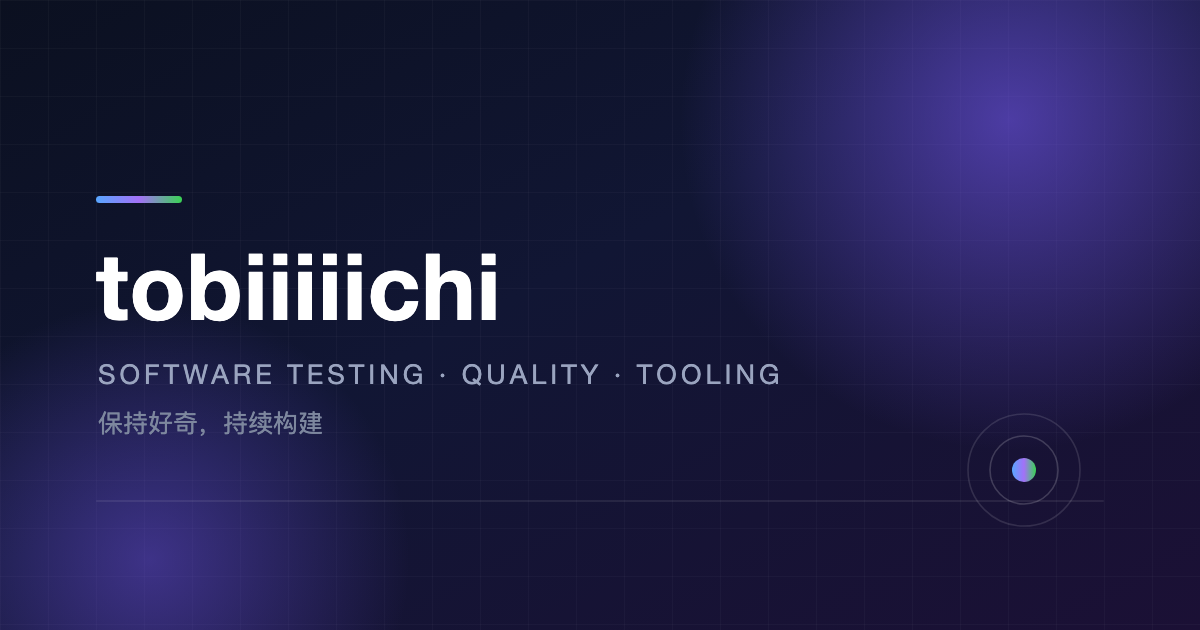
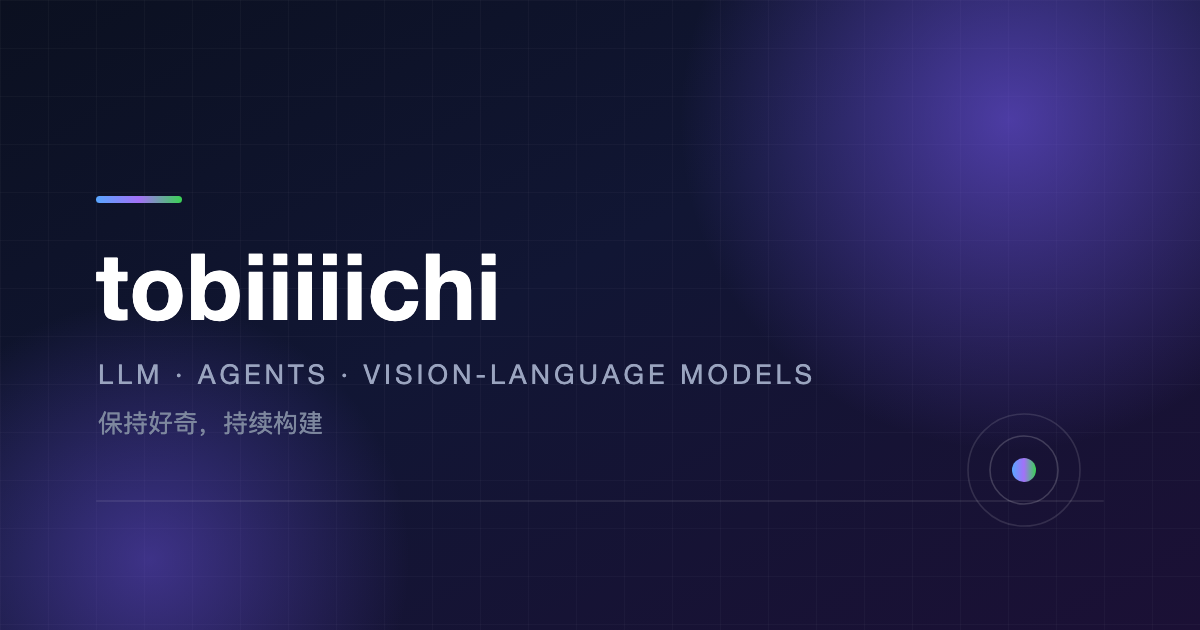
feat: 按 AI 方向更新站点内容

Changed region(s): [[0.0617, 0.573, 0.6783, 0.6333]]

diff --git a/index.html b/index.html
@@ -3,15 +3,15 @@
 <head>
 <meta charset="UTF-8">
 <meta name="viewport" content="width=device-width, initial-scale=1">
-<title>tobiiiiichi · 保持好奇，持续构建</title>
-<meta name="description" content="tobiiiiichi 的个人主页 —— 关注软件测试、质量保障与工程效率。保持好奇，持续构建。">
+<title>tobiiiiichi · LLM · Agent · VLM</title>
+<meta name="description" content="tobiiiiichi 的个人主页 —— 关注大语言模型、智能体、视觉语言模型与生成式引擎优化（GEO）。保持好奇，持续构建。">
 <meta name="author" content="tobiiiiichi">
 <link rel="canonical" href="https://tobiiiiichi.github.io/">
 <link rel="icon" href="assets/img/favicon.svg" type="image/svg+xml">
 
 <meta property="og:type" content="website">
-<meta property="og:title" content="tobiiiiichi · 保持好奇，持续构建">
-<meta property="og:description" content="关注软件测试、质量保障与工程效率。">
+<meta property="og:title" content="tobiiiiichi · LLM · Agent · VLM">
+<meta property="og:description" content="关注大语言模型、智能体、视觉语言模型与生成式引擎优化（GEO）。">
 <meta property="og:url" content="https://tobiiiiichi.github.io/">
 <meta property="og:image" content="https://tobiiiiichi.github.io/assets/img/og.png">
 <meta name="twitter:card" content="summary_large_image">
@@ -69,10 +69,10 @@
         <p class="kicker">Hello，我是</p>
         <!-- 想显示真名的话，把下面这行换成你的名字 -->
         <h1 class="hero__title">tobiiiiichi</h1>
-        <p class="hero__role">软件测试 · 质量保障 · 工程效率</p>
+        <p class="hero__role">大语言模型 · 智能体 · 视觉语言模型</p>
         <p class="hero__desc">
-          保持好奇，持续构建。关注软件是否可靠、流程是否省力，
-          也喜欢把重复的事情交给脚本去完成。
+          保持好奇，持续构建。关心模型能做什么、边界在哪，
+          也关心它怎么在真实流程里被用起来、被验证、被信任。
         </p>
 
         <div class="hero__actions">
@@ -109,35 +109,36 @@
   <section class="section" id="about">
     <div class="wrap">
       <p class="section__kicker reveal">关于我</p>
-      <h2 class="section__title reveal">把软件做对，也把流程做顺</h2>
+      <h2 class="section__title reveal">模型、智能体，以及它们怎么被信任</h2>
 
       <div class="about">
         <div class="about__text reveal">
           <p>
-            我在软件质量这条线上工作：从测试计划、测试用例到回归验证，
-            尽量让每一次交付都有据可依，而不是靠感觉。
+            我的方向是大语言模型与智能体：从模型本身的能力，
+            到它如何调用工具、如何在一个多步任务里保持稳定。
           </p>
           <p>
-            工作之外，我喜欢折腾自己的工具链和小项目。
-            重复的事情能自动化就自动化，能写清楚就不留在脑子里。
+            最近也在看视觉语言模型和生成式引擎优化（GEO）。
+            当答案越来越多由模型生成，内容如何被找到、被引用、被追溯，
+            是我觉得还没被讲清楚的问题。
           </p>
         </div>
 
         <ul class="facts">
           <li class="fact reveal" data-delay="1">
-            <span class="fact__icon" aria-hidden="true">🔍</span>
-            <h3>测试与质量</h3>
-            <p>测试设计、缺陷跟踪、回归与验收，让问题在交付前暴露。</p>
+            <span class="fact__icon" aria-hidden="true">🧠</span>
+            <h3>大语言模型</h3>
+            <p>模型能力、推理与评测：它能做到什么、边界在哪，以及怎么把这件事量出来。</p>
           </li>
           <li class="fact reveal" data-delay="2">
             <span class="fact__icon" aria-hidden="true">⚙</span>
-            <h3>自动化与工具</h3>
-            <p>把重复流程脚本化，用工具换回时间和注意力。</p>
+            <h3>智能体</h3>
+            <p>工具调用、规划与多步任务：让模型在真实流程里把事情稳定地做完。</p>
           </li>
           <li class="fact reveal" data-delay="3">
-            <span class="fact__icon" aria-hidden="true">📚</span>
-            <h3>文档与规范</h3>
-            <p>写清楚比说清楚更耐用，规范是团队的长期资产。</p>
+            <span class="fact__icon" aria-hidden="true">🌐</span>
+            <h3>多模态与生成式搜索</h3>
+            <p>视觉语言模型与 GEO：内容如何被理解，又如何被引用、被追溯来源。</p>
           </li>
         </ul>
       </div>
@@ -152,35 +153,36 @@
 
       <div class="skills">
         <article class="card reveal">
-          <h3>语言</h3>
+          <h3>方向</h3>
           <ul class="tags">
-            <li>Python</li>
-            <li>JavaScript</li>
-            <li>TypeScript</li>
-            <li>SQL</li>
-            <li>Bash</li>
+            <li>大语言模型</li>
+            <li>LLM Agent</li>
+            <li>视觉语言模型</li>
+            <li>生成式引擎优化</li>
+            <li>评测与基准</li>
           </ul>
         </article>
 
         <article class="card reveal" data-delay="1">
-          <h3>工具链</h3>
+          <h3>方法</h3>
           <ul class="tags">
-            <li>Git</li>
-            <li>Linux</li>
-            <li>Docker</li>
-            <li>VS Code</li>
-            <li>CI / CD</li>
+            <li>检索增强生成</li>
+            <li>指令微调与对齐</li>
+            <li>工具调用</li>
+            <li>多模态理解</li>
+            <li>基准设计</li>
           </ul>
         </article>
 
         <article class="card reveal" data-delay="2">
-          <h3>方向</h3>
+          <h3>工具链</h3>
           <ul class="tags">
-            <li>测试自动化</li>
-            <li>接口测试</li>
-            <li>质量保障</li>
-            <li>工程效率</li>
-            <li>技术文档</li>
+            <li>Python</li>
+            <li>PyTorch</li>
+            <li>Hugging Face</li>
+            <li>LaTeX</li>
+            <li>Git</li>
+            <li>Docker</li>
           </ul>
         </article>
       </div>
@@ -194,7 +196,7 @@
       <h2 class="section__title reveal">正在整理中</h2>
 
       <div class="empty reveal">
-        <p>手上的东西还在收拾，等整理好了会放到这里。</p>
+        <p>公开项目还在整理。日常主要在 LLM 与 agent 方向工作，能拿出手的部分收拾好会放到这里。</p>
         <a class="btn btn--primary" href="https://github.com/tobiiiiichi?tab=repositories">去 GitHub 看看</a>
       </div>
 
@@ -218,11 +220,12 @@
       <div class="contact reveal">
         <p class="section__kicker">联系我</p>
         <h2 class="section__title">有事聊，随时找我</h2>
-        <p class="contact__desc">技术、工具、测试，或者只是随便聊聊，都欢迎。</p>
+        <p class="contact__desc">聊模型、聊 agent、聊研究，或者只是随便聊聊，都欢迎。</p>
 
         <div class="contact__actions">
           <a class="btn btn--primary" href="mailto:tobiiiiichi@outlook.com">tobiiiiichi@outlook.com</a>
           <a class="btn" href="https://github.com/tobiiiiichi">GitHub</a>
+          <a class="btn" href="https://openreview.net/profile?id=~Yuding_Liu1">OpenReview</a>
         </div>
       </div>
     </div>
